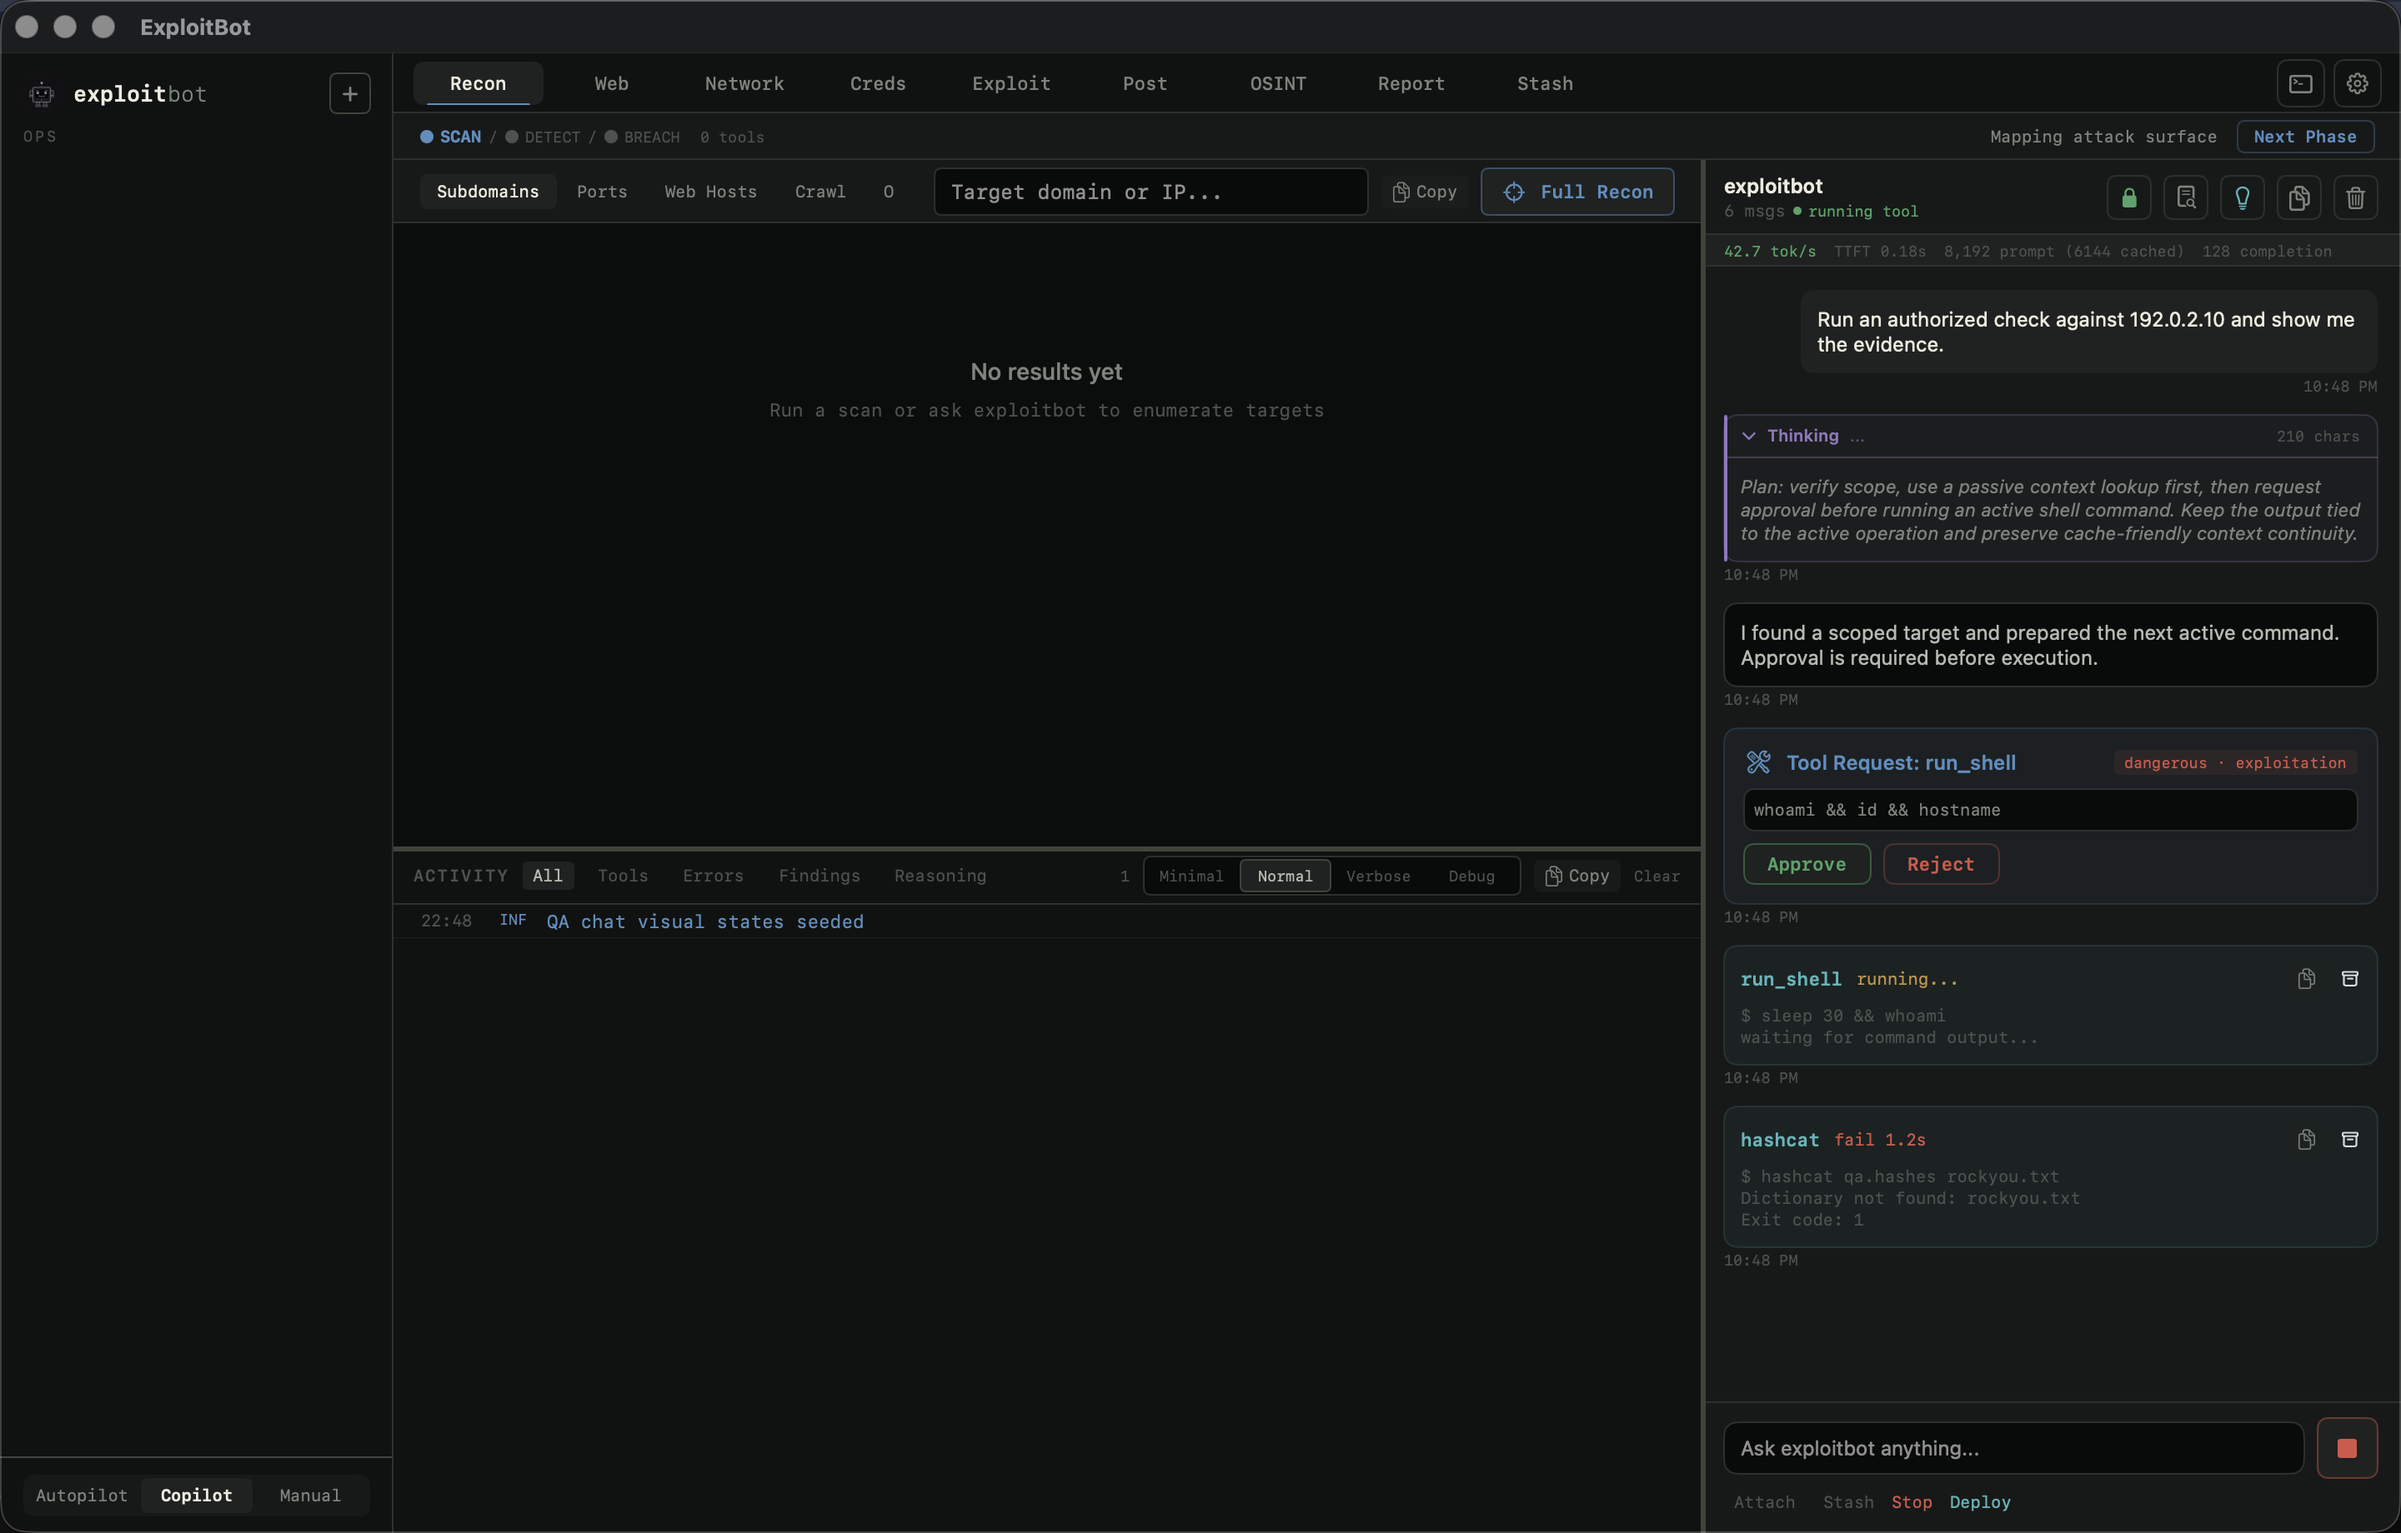
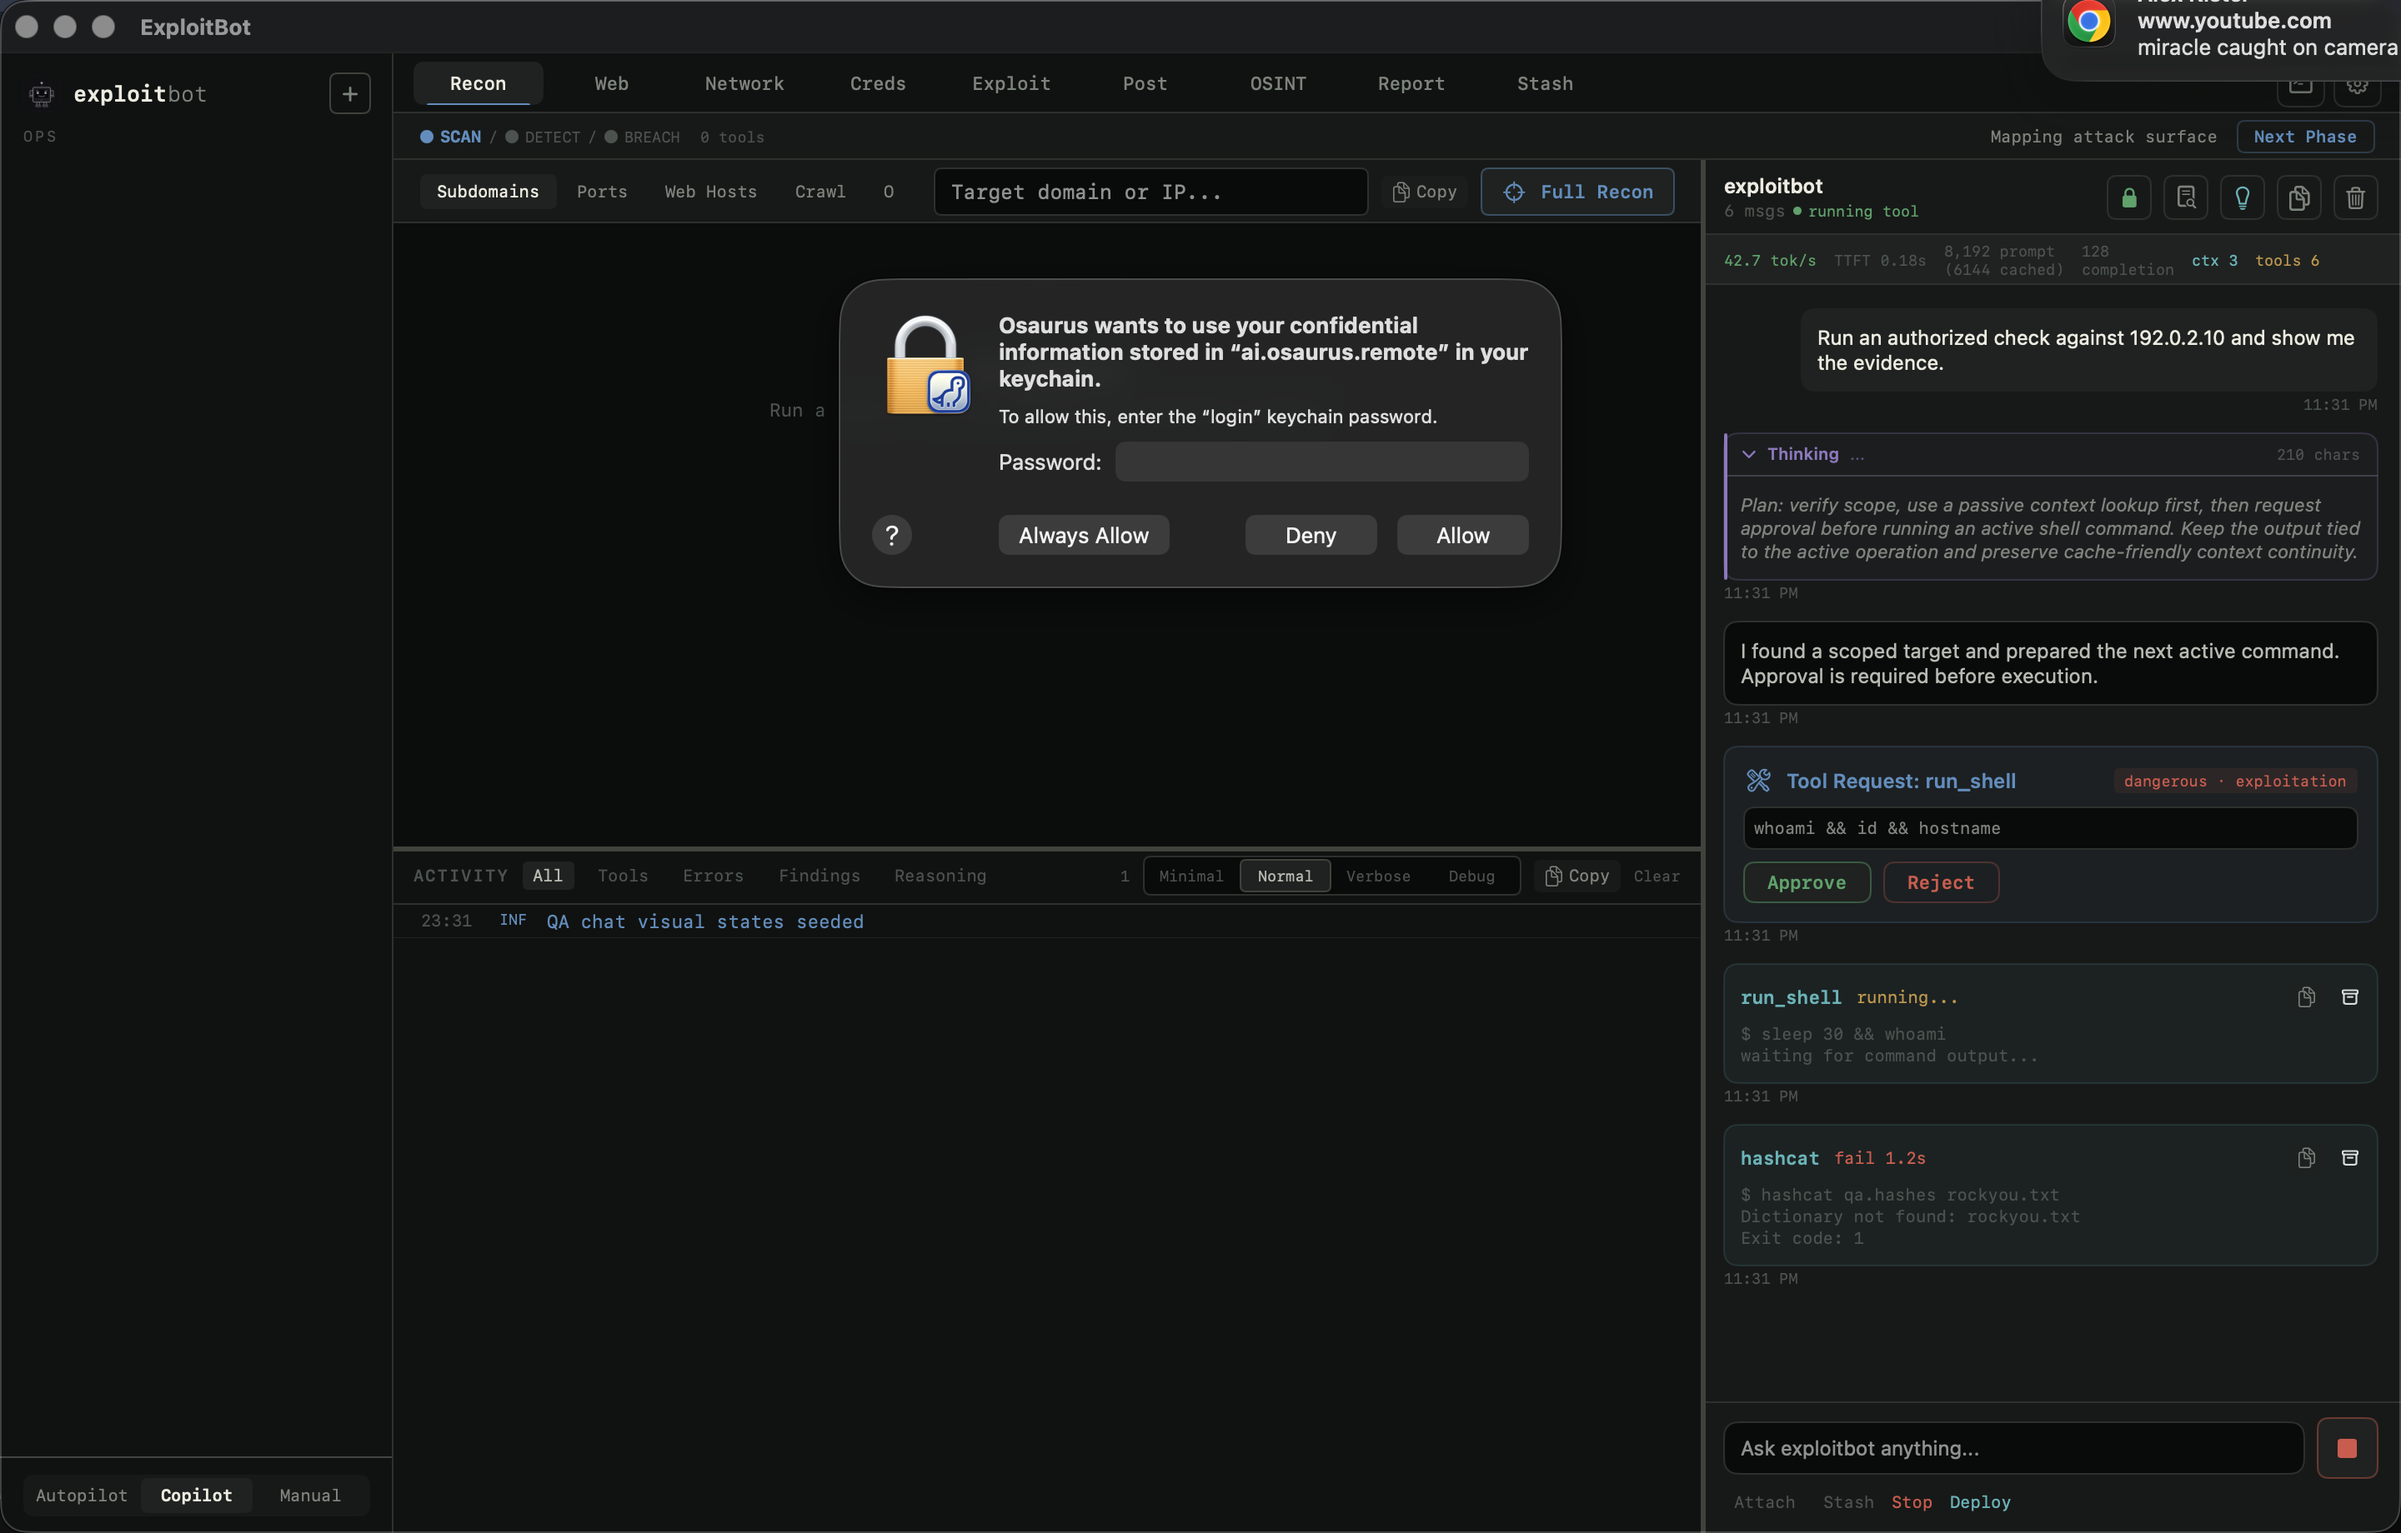
app: expose request context counters

diff --git a/ExploitBot/Sources/ExploitBot/Services/ChatService.swift b/ExploitBot/Sources/ExploitBot/Services/ChatService.swift
@@ -100,6 +100,9 @@ class ChatService {
     var completionTokenCount: Int = 0
     var cachedTokenCount: Int = 0
     var isMetricsVisible: Bool = false
+    var lastContextSummary: String = ""
+    var lastContextSnippetCount: Int = 0
+    var lastToolSchemaNames: [String] = []
     private var streamStartTime: Date?
     private var firstTokenReceived: Bool = false
     private var lastContentFlush: Date = .distantPast  // Throttle message content updates
@@ -225,6 +228,9 @@ class ChatService {
         completionTokenCount = 0
         cachedTokenCount = 0
         isMetricsVisible = false
+        lastContextSummary = ""
+        lastContextSnippetCount = 0
+        lastToolSchemaNames = []
         firstTokenReceived = false
         streamStartTime = nil
     }
@@ -483,9 +489,14 @@ class ChatService {
         // Inject query-aware context from the dynamic catalogue as a system-level note.
         let latestUserPrompt = messages.last(where: { $0.role == .user })?.content ?? ""
         let contextSummary = await buildContextSummary(for: latestUserPrompt)
+        lastContextSummary = contextSummary
+        lastContextSnippetCount = Self.extractSelectedContextCount(from: contextSummary)
         if !contextSummary.isEmpty {
             apiMessages.append(["role": "system", "content": contextSummary])
         }
+
+        let selectedTools = ToolDefinitions.forModel(query: latestUserPrompt, activeTab: activeTab)
+        lastToolSchemaNames = ToolDefinitions.names(from: selectedTools)
 
         var body: [String: Any] = [
             "model": modelName.isEmpty ? "default" : modelName,
@@ -493,7 +504,7 @@ class ChatService {
             "stream": true,
             "enable_thinking": enableReasoning,
             "chat_template_kwargs": ["enable_thinking": enableReasoning],
-            "tools": ToolDefinitions.forModel(query: latestUserPrompt, activeTab: activeTab),
+            "tools": selectedTools,
             "stream_options": ["include_usage": true]
         ]
         if !useModelGenerationDefaults {
@@ -628,5 +639,12 @@ class ChatService {
         }
 
         return result
+    }
+
+    private static func extractSelectedContextCount(from summary: String) -> Int {
+        guard let range = summary.range(of: "Policy: selected ") else { return 0 }
+        let suffix = summary[range.upperBound...]
+        let digits = suffix.prefix { $0.isNumber }
+        return Int(digits) ?? 0
     }
 }

diff --git a/ExploitBot/Sources/ExploitBot/Models/AppState.swift b/ExploitBot/Sources/ExploitBot/Models/AppState.swift
@@ -214,6 +214,9 @@ class TestServer {
             state.chatService.cachedTokenCount = 6144
             state.chatService.completionTokenCount = 128
             state.chatService.isMetricsVisible = true
+            state.chatService.lastContextSummary = "## Dynamic Context Catalogue\nPolicy: selected 3 of 12 indexed items for phase Scan, tab recon.\nSelected snippets:\n- [asset.port] 192.0.2.10:80/tcp: open http Apache\n- [finding] HIGH Apache path traversal: CVE-2021-41773\n- [stash.note] operator note: verify safely"
+            state.chatService.lastContextSnippetCount = 3
+            state.chatService.lastToolSchemaNames = ["search_context", "search_cve", "lookup_cve", "run_shell", "nmap", "httpx"]
             state.chatService.interactionMode = .copilot
             state.interactionMode = .copilot
             state.activityFeed.logInfo("QA chat visual states seeded")
@@ -413,6 +416,13 @@ class TestServer {
                     "maxIterations": state.chatService.maxIterations,
                     "enableReasoning": state.chatService.enableReasoning,
                 ],
+                "requestContext": [
+                    "contextInjected": !state.chatService.lastContextSummary.isEmpty,
+                    "contextSnippetCount": state.chatService.lastContextSnippetCount,
+                    "contextPreview": String(state.chatService.lastContextSummary.prefix(500)),
+                    "toolSchemaCount": state.chatService.lastToolSchemaNames.count,
+                    "toolSchemas": state.chatService.lastToolSchemaNames,
+                ] as [String: Any],
                 "engineConfig": [
                     "prefixCache": state.engineConfig.prefixCache,
                     "promptL2Disk": state.engineConfig.diskCache,

diff --git a/ExploitBot/Sources/ExploitBot/Views/Chat/ChatPanelView.swift b/ExploitBot/Sources/ExploitBot/Views/Chat/ChatPanelView.swift
@@ -143,6 +143,16 @@ struct ChatPanelView: View {
                         Text("\(chatService.completionTokenCount) completion")
                             .font(.mono9).foregroundColor(.textDim)
                     }
+                    if !chatService.lastContextSummary.isEmpty {
+                        Text("ctx \(chatService.lastContextSnippetCount)")
+                            .font(.mono9).foregroundColor(.accentCyan)
+                            .help(String(chatService.lastContextSummary.prefix(600)))
+                    }
+                    if !chatService.lastToolSchemaNames.isEmpty {
+                        Text("tools \(chatService.lastToolSchemaNames.count)")
+                            .font(.mono9).foregroundColor(.accentAmber)
+                            .help(chatService.lastToolSchemaNames.joined(separator: ", "))
+                    }
                     Spacer()
                 }
                 .padding(.horizontal, 14)

diff --git a/ExploitBot/Sources/ExploitBot/Services/ToolDefinitions.swift b/ExploitBot/Sources/ExploitBot/Services/ToolDefinitions.swift
@@ -71,6 +71,10 @@ struct ToolDefinitions {
             .compactMap(functionName)
     }
 
+    static func names(from tools: [[String: Any]]) -> [String] {
+        tools.compactMap(functionName)
+    }
+
     private static func functionName(_ tool: [String: Any]) -> String? {
         (tool["function"] as? [String: Any])?["name"] as? String
     }

diff --git a/scripts/visual-chat-proof.py b/scripts/visual-chat-proof.py
@@ -82,6 +82,9 @@ def assert_seeded_chat_state() -> None:
     metrics = state.get("metrics") or {}
     if metrics.get("tokPerSec", 0) <= 0 or metrics.get("ttft", 0) <= 0:
         raise AssertionError(f"expected visible token metrics in seeded chat state: {state}")
+    request_context = state.get("requestContext") or {}
+    if request_context.get("contextSnippetCount") != 3 or request_context.get("toolSchemaCount") != 6:
+        raise AssertionError(f"expected visible request context counters in seeded chat state: {state}")
 
     messages = request("GET", "/messages")
     required = {
@@ -120,7 +123,7 @@ def run() -> None:
         manifest = {
             "ok": True,
             "captures": [str(target.relative_to(ROOT))],
-            "note": "Cropped macOS capture of seeded chat approval, running tool, failed tool, reasoning, and token metric states.",
+            "note": "Cropped macOS capture of seeded chat approval, running tool, failed tool, reasoning, token metric, context count, and exposed tool-schema count states.",
         }
         (OUT_DIR / "manifest.json").write_text(json.dumps(manifest, indent=2) + "\n", encoding="utf-8")
         print("visual-chat proof passed")

diff --git a/scripts/live-turn-harness.py b/scripts/live-turn-harness.py
@@ -528,6 +528,11 @@ def run() -> None:
         state = request("GET", "/state")
         assert state["metrics"]["tokPerSec"] > 0, state
         assert state["metrics"]["ttft"] > 0, state
+        request_context = state.get("requestContext") or {}
+        assert request_context.get("contextInjected") is True, state
+        assert request_context.get("contextSnippetCount", 0) <= 4, state
+        assert request_context.get("toolSchemaCount", 99) <= 12, state
+        assert "search_context" in request_context.get("toolSchemas", []), state
 
         with MockState.lock:
             first_request = MockState.requests[0]

diff --git a/docs/checkpoints/2026-05-21-beta-refresh-checkpoint-82.md b/docs/checkpoints/2026-05-21-beta-refresh-checkpoint-82.md
@@ -1,0 +1,36 @@
+# Checkpoint 82 - Request Context Visibility
+
+## Scope
+
+- Make the dynamic context and bounded tool-schema selection visible rather than
+  hidden request-shaping behavior.
+- Keep the display compact enough for the chat panel.
+
+## Changes
+
+- `ChatService` now records the last dynamic context packet preview, selected
+  snippet count, and exposed tool-schema names.
+- `/state.requestContext` exposes `contextInjected`, `contextSnippetCount`,
+  `contextPreview`, `toolSchemaCount`, and `toolSchemas` for live proof.
+- The chat metrics strip shows compact `ctx N` and `tools N` counters with
+  hover details.
+- QA seeded chat state now includes request-context counters so screenshot proof
+  covers the visual surface.
+
+## Proof
+
+- `swift build --package-path ExploitBot`
+- `python3 scripts/live-turn-harness.py`
+- `python3 scripts/visual-chat-proof.py`
+- `git diff --check`
+
+The live harness proves the request-context state appears after an agent turn,
+stays bounded to 4 context snippets and 12 tool schemas or fewer, and still
+preserves the prior streaming/tool/new-context cache behavior. The visual proof
+refreshes `docs/visual-proofs/checkpoint-71/chat-tool-states.png` with token,
+context, and tool-schema counters visible.
+
+## Remaining
+
+- Add a full expandable context/tool inspection panel for reviewing complete
+  retrieved snippets and exposed schemas after each turn.

diff --git a/docs/app-system-review-2026-05-21.md b/docs/app-system-review-2026-05-21.md
@@ -261,6 +261,8 @@ Automated no-model gates:
     the model to use `search_context` for more targeted retrieval;
   - proves web-tab tool schemas are query bounded and do not include unrelated
     OSINT/exploit schemas in the request body;
+  - proves `/state.requestContext` exposes whether context was injected, how
+    many snippets were selected, and which tool schemas were exposed;
   - proves prefix cache, prompt L2, paged cache, block L2, TurboQuant Q4, and
     model-folder generation defaults remain enabled in runtime config;
   - proves the new-context route clears chat state and token/cached counters
@@ -346,7 +348,7 @@ Visual gates:
 - Reasoning expanded/streaming and collapsed states are captured under
   `docs/visual-proofs/checkpoint-72`; manually reopened is represented by the
   expanded forced state.
-- Token metrics bar seeded state is captured under
+- Token metrics plus context/tool-schema count seeded state is captured under
   `docs/visual-proofs/checkpoint-71`.
 - Tool approval card, running tool card, and failed tool card states are
   captured under `docs/visual-proofs/checkpoint-71`.

diff --git a/docs/app-flow-inventory-2026-05-21.md b/docs/app-flow-inventory-2026-05-21.md
@@ -66,6 +66,8 @@ main session.
   the block.
 - Metrics show token/s, TTFT, prompt tokens, cached prompt tokens, and
   completion tokens when the engine returns usage.
+- The same strip shows the last request's selected context count and exposed
+  tool-schema count, with hover details for context preview and tool names.
 - Chat scroll lock is explicit: locked mode follows the latest output, dragging
   pauses auto-scroll, and the "Latest/New output" control relocks to the newest
   message.
@@ -115,7 +117,8 @@ Required next catalog lane:
 - Add durable embeddings for tools, techniques, findings, assets, commands,
   prior outputs, and stash items, not only CVEs.
 - Store retrieval decisions with the chat turn for later audit.
-- Add visible "context used" inspection in the chat/tool panel.
+- Add a full expandable "context used" inspection panel; compact context/tool
+  counters are visible now.
 
 ## Tab Functions
 

diff --git a/docs/engine-migration-prep-2026-05-21.md b/docs/engine-migration-prep-2026-05-21.md
@@ -534,6 +534,12 @@ Do not enable MTP from metadata alone. Runtime activation must require config su
   stay visible, installed external schemas are capped at 12 by default, and
   `scripts/tool-catalog-proof.py` plus `scripts/live-turn-harness.py` prove the
   web lane does not carry unrelated OSINT/exploit schemas.
+- Checkpoint 82: Added request-context visibility. `ChatService` records the
+  last context packet preview, selected snippet count, and exposed tool schema
+  names; `/state.requestContext` exposes them for proof; the chat metrics strip
+  renders compact `ctx` and `tools` counters. `scripts/live-turn-harness.py`
+  proves the state contract and `scripts/visual-chat-proof.py` refreshes the
+  screenshot under `docs/visual-proofs/checkpoint-71`.
 
 ## Known Risk Areas
 
